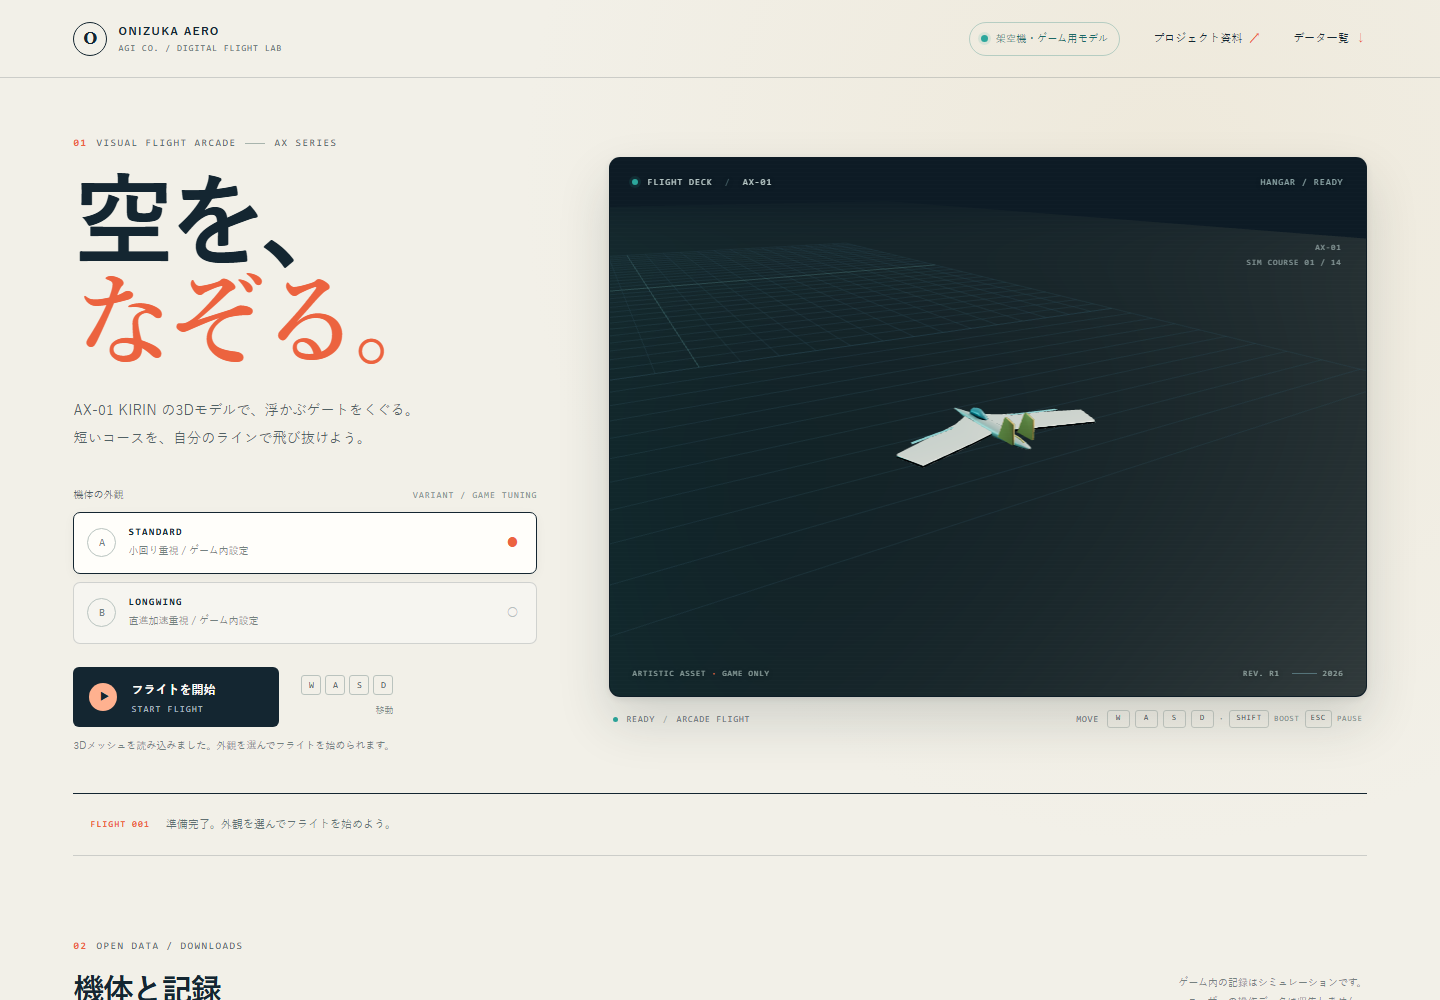
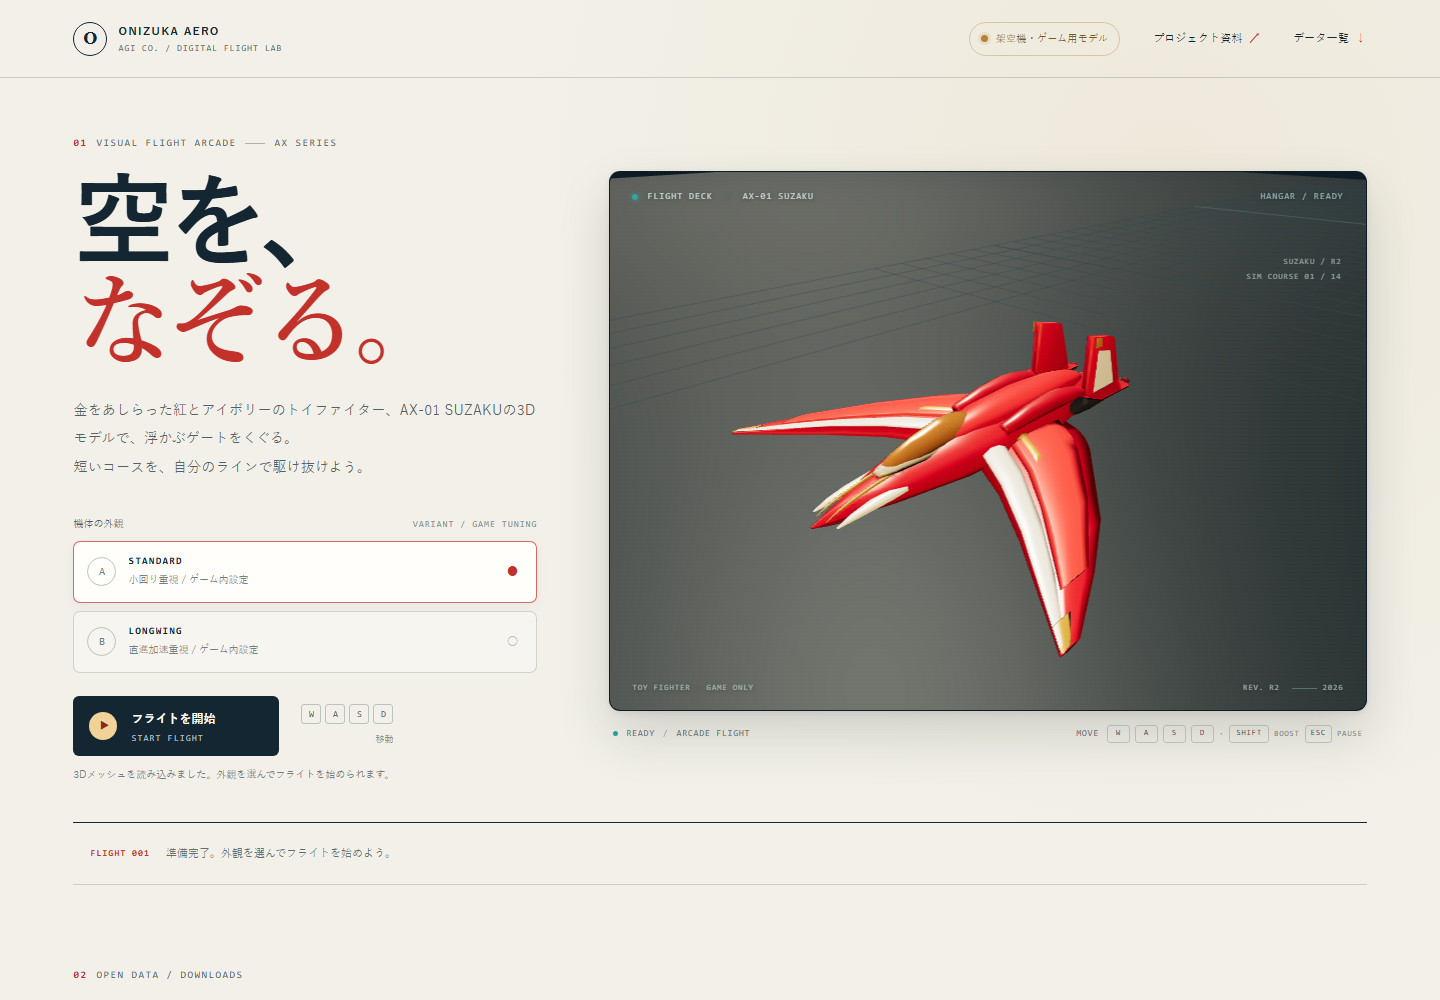
Record verified SUZAKU r2 public release [skip ci]

diff --git a/docs/reproduce.md b/docs/reproduce.md
@@ -43,7 +43,7 @@ npx playwright install chromium
 npm run test:browser
 ~~~
 
-`npm test` はNodeのテストを実行し、`npm run build` は本番用ファイルを生成します。r2の実行ではNodeテスト15件と本番ビルドが合格しました。`npm run test:browser` はビルド済みアプリを使い、ポート4188で専用のVite previewを起動します。別途 `npm run preview` を起動する必要はありません。現在のローカル記録では自動Chromium確認12件、直接UI確認9件が合格しています（[自動確認](../evidence/browser-automated.json)、[直接UI確認](../evidence/browser-suzaku-ui.json)）。スマートフォン実機では未確認です。GitHub r2 CI、Pagesへの公開、最新公開先の確認は未完了です。
+`npm test` はNodeのテストを実行し、`npm run build` は本番用ファイルを生成します。r2の実行ではNodeテスト15件と本番ビルドが合格しました。`npm run test:browser` はビルド済みアプリを使い、ポート4188で専用のVite previewを起動します。別途 `npm run preview` を起動する必要はありません。現在のローカル記録では自動Chromium確認12件、直接UI確認9件が合格しています（[自動確認](../evidence/browser-automated.json)、[直接UI確認](../evidence/browser-suzaku-ui.json)）。スマートフォン実機では未確認です。[GitHub Actions CIとPagesデプロイ](https://github.com/onizuka-agi-co/onizuka-aero-agi-co/actions/runs/39439337215)は成功しました。公開サイトでもブラウザ12項目が通過し、匿名取得した41ファイルのサイズとSHA-256が一致しました。
 
 開発サーバーは `npm run dev` で起動します。ビルド済みアプリを確認する場合は、先に `npm run build` を実行し、その後 `npm run preview` を起動します。
 
@@ -60,7 +60,7 @@ node .\scripts\verify-public.mjs
 
 ### 記録の解釈
 
-形状値は任意設計単位です。アーケード記録は模擬ゲーム状態です。どちらも実際の飛行性能や航空宇宙工学の評価として解釈しないでください。ブラウザ確認はChromiumの画面とタッチ操作のエミュレーションです。スマートフォン実機の確認とは異なります。r2のローカルブラウザ確認は完了しましたが、公開確認は未完了です。r1と明記された以前のブラウザ・公開記録は履歴資料として扱います。
+形状値は任意設計単位です。アーケード記録は模擬ゲーム状態です。どちらも実際の飛行性能や航空宇宙工学の評価として解釈しないでください。ブラウザ確認はChromiumの画面とタッチ操作のエミュレーションです。スマートフォン実機の確認とは異なります。r2のローカル確認に加え、公開URLでの操作と匿名取得も確認しました。r1と明記された以前のブラウザ・公開記録は履歴資料として扱います。
 
 ## English
 
@@ -120,4 +120,4 @@ node .\scripts\verify-public.mjs
 
 ### Interpret the records
 
-Geometry values use arbitrary design units. Arcade records are simulated game state. Do not interpret either as actual flight performance or aerospace engineering results. Current local r2 browser checks are recorded in the automated Chromium and direct UI reports. The automated touch check uses an emulated viewport; the direct session used a desktop in-app browser. Neither tests physical phones. GitHub r2 CI, Pages publication, and anonymous verification of the latest public deployment are pending. Older reports labeled r1 are historical.
+Geometry values use arbitrary design units. Arcade records are simulated game state. Do not interpret either as actual flight performance or aerospace engineering results. Current local r2 browser checks are recorded in the automated Chromium and direct UI reports. The automated touch check uses an emulated viewport; the direct session used a desktop in-app browser. Neither tests physical phones. [GitHub Actions CI and Pages deployment](https://github.com/onizuka-agi-co/onizuka-aero-agi-co/actions/runs/39439337215) passed for r2. All 12 browser checks also passed on the public site, and 41 anonymous downloads matched byte sizes and SHA-256 hashes. Older reports labeled r1 are historical.

diff --git a/README.ja.md b/README.ja.md
@@ -2,6 +2,8 @@
 
 [日本語](README.ja.md) | [English](README.md)
 
+[SUZAKUで遊ぶ](https://onizuka-agi-co.github.io/onizuka-aero-agi-co/) · [CADプレビュー](https://onizuka-agi-co.github.io/onizuka-aero-agi-co/assets/ax01/standard/preview.svg)
+
 ONIZUKA AERO AGI Co. は、航空をテーマにしたデジタルアート、形状確認、民生向けアーケードゲームを再現可能な成果物として公開する実験会社です。使命と公開方針は人間のミッションオーナーが定めます。
 
 現行デザインは赤・アイボリー・金の配色と前進翼を持つ架空のコレクショントイ `AX-01 SUZAKU r2` です。`standard` と `longwing` は造形上のバリアントで、操作・ルールと、バリアントごとのゲーム内調整値は従来のままです。
@@ -18,9 +20,11 @@ FreeCAD 1.1.3 の形状レポートは両バリアントで合格しました。
 
 アーケード記録は3件です。`standard` と `longwing` のコース走行はどちらも14ゲートを通過し、3,300点を記録しました。ミス制御の記録はゲートを通過せず、0点でした。再生成後のリプレイテストは3件すべて通過しました。[アーケード記録の概要](public/data/arcade-summary.json)に結果をまとめています。
 
-r2では本番ビルドが成功し、Chromiumによる自動確認12/12件、直接UI確認9/9件に合格しました。Node.jsテストは15件すべてに合格し、マニフェストには公開ファイル20件とハッシュ付きソース20件が登録されています。直接UI確認ではコースの完了とポーズ／再開の動作も確認しました。いずれもローカルプレビューでの結果です。スマートフォン実機では確認していません。GitHub上のr2 CI、Pagesへの公開、最新公開先の匿名確認は未完了です。以前のブラウザ・公開確認はr1の履歴です。[自動ブラウザ確認](evidence/browser-automated.json)と[直接操作のUI確認](evidence/browser-suzaku-ui.json)を参照してください。
+r2では本番ビルドが成功し、Chromiumによる自動確認12/12件、直接UI確認9/9件に合格しました。Node.jsテストは15件すべてに合格し、マニフェストには公開ファイル20件とハッシュ付きソース20件が登録されています。直接UI確認ではコースの完了とポーズ／再開の動作も確認しました。いずれもローカルプレビューでの結果です。スマートフォン実機では確認していません。[GitHub Actions CIとPagesデプロイ](https://github.com/onizuka-agi-co/onizuka-aero-agi-co/actions/runs/39439337215)は成功しました。公開サイトでもブラウザ12項目が通過し、匿名取得した41ファイルのサイズとSHA-256が一致しました。r1と明記された記録は履歴として扱います。[自動ブラウザ確認](evidence/browser-automated.json)と[直接操作のUI確認](evidence/browser-suzaku-ui.json)を参照してください。
 
 ## 再現方法
+
+[公開サイトの操作記録](evidence/browser-public.json)と[匿名取得・ハッシュ照合記録](evidence/publication.json)を保存しています。
 
 依存関係は `npm ci` で導入します。テストは `npm test`、本番ビルドは `npm run build` で実行できます。CAD、データ、ブラウザ確認のコマンドは[再現手順](docs/reproduce.md)を参照してください。
 

diff --git a/README.md b/README.md
@@ -1,5 +1,7 @@
 # ONIZUKA AERO AGI Co.
 
+[日本語](README.ja.md) · [Play SUZAKU](https://onizuka-agi-co.github.io/onizuka-aero-agi-co/) · [CAD preview](https://onizuka-agi-co.github.io/onizuka-aero-agi-co/assets/ax01/standard/preview.svg)
+
 ONIZUKA AERO AGI Co. publishes original aviation-themed digital art, geometry checks, and a civilian arcade game as reproducible artifacts. A human mission owner sets the mission and publication policy.
 
 The current design is **AX-01 SUZAKU r2**, a fictional collectible toy with red, ivory, and gold detailing and forward-swept main wings. The `standard` and `longwing` variants retain the existing controls and rules, with their variant-specific in-game tuning unchanged.
@@ -16,9 +18,11 @@ The FreeCAD 1.1.3 geometry report passes for both variants. Each has 40 valid sh
 
 The arcade dataset contains three generated replay records. The standard and longwing route-following runs each pass all 14 gates and score 3,300 points. The miss-control run passes no gates and scores 0. All three replay tests passed after regeneration. See the [arcade summary](public/data/arcade-summary.json).
 
-The r2 local production build and browser checks passed: automated Chromium reported 12/12 checks, and a separate direct in-app-browser session passed 9/9 checks. The Node suite passed 15/15, and the manifest covers 20 public files and 20 hashed sources. The direct session also verified course completion and pause/resume behavior. These checks target local previews; physical phones are untested. GitHub r2 CI, Pages publication, and anonymous verification of the latest public deployment are pending. Older browser and publication reports describe r1 and remain historical. See the [automated browser report](evidence/browser-automated.json) and [direct browser report](evidence/browser-suzaku-ui.json).
+The r2 local production build and browser checks passed: automated Chromium reported 12/12 checks, and a separate direct in-app-browser session passed 9/9 checks. The Node suite passed 15/15, and the manifest covers 20 public files and 20 hashed sources. The direct session also verified course completion and pause/resume behavior. These checks target local previews; physical phones are untested. [GitHub Actions CI and Pages deployment](https://github.com/onizuka-agi-co/onizuka-aero-agi-co/actions/runs/39439337215) passed for r2. All 12 browser checks also passed on the public site, and 41 anonymous downloads matched byte sizes and SHA-256 hashes. Reports labeled r1 remain historical. See the [automated browser report](evidence/browser-automated.json) and [direct browser report](evidence/browser-suzaku-ui.json).
 
 ## Reproduce
+
+See the [public-site browser report](evidence/browser-public.json) and [anonymous-download verification](evidence/publication.json) for the published r2 checks.
 
 Install dependencies with `npm ci`, run the checks with `npm test`, and build with `npm run build`. The [reproduction guide](docs/reproduce.md) gives the CAD, data, and browser-validation commands.
 
